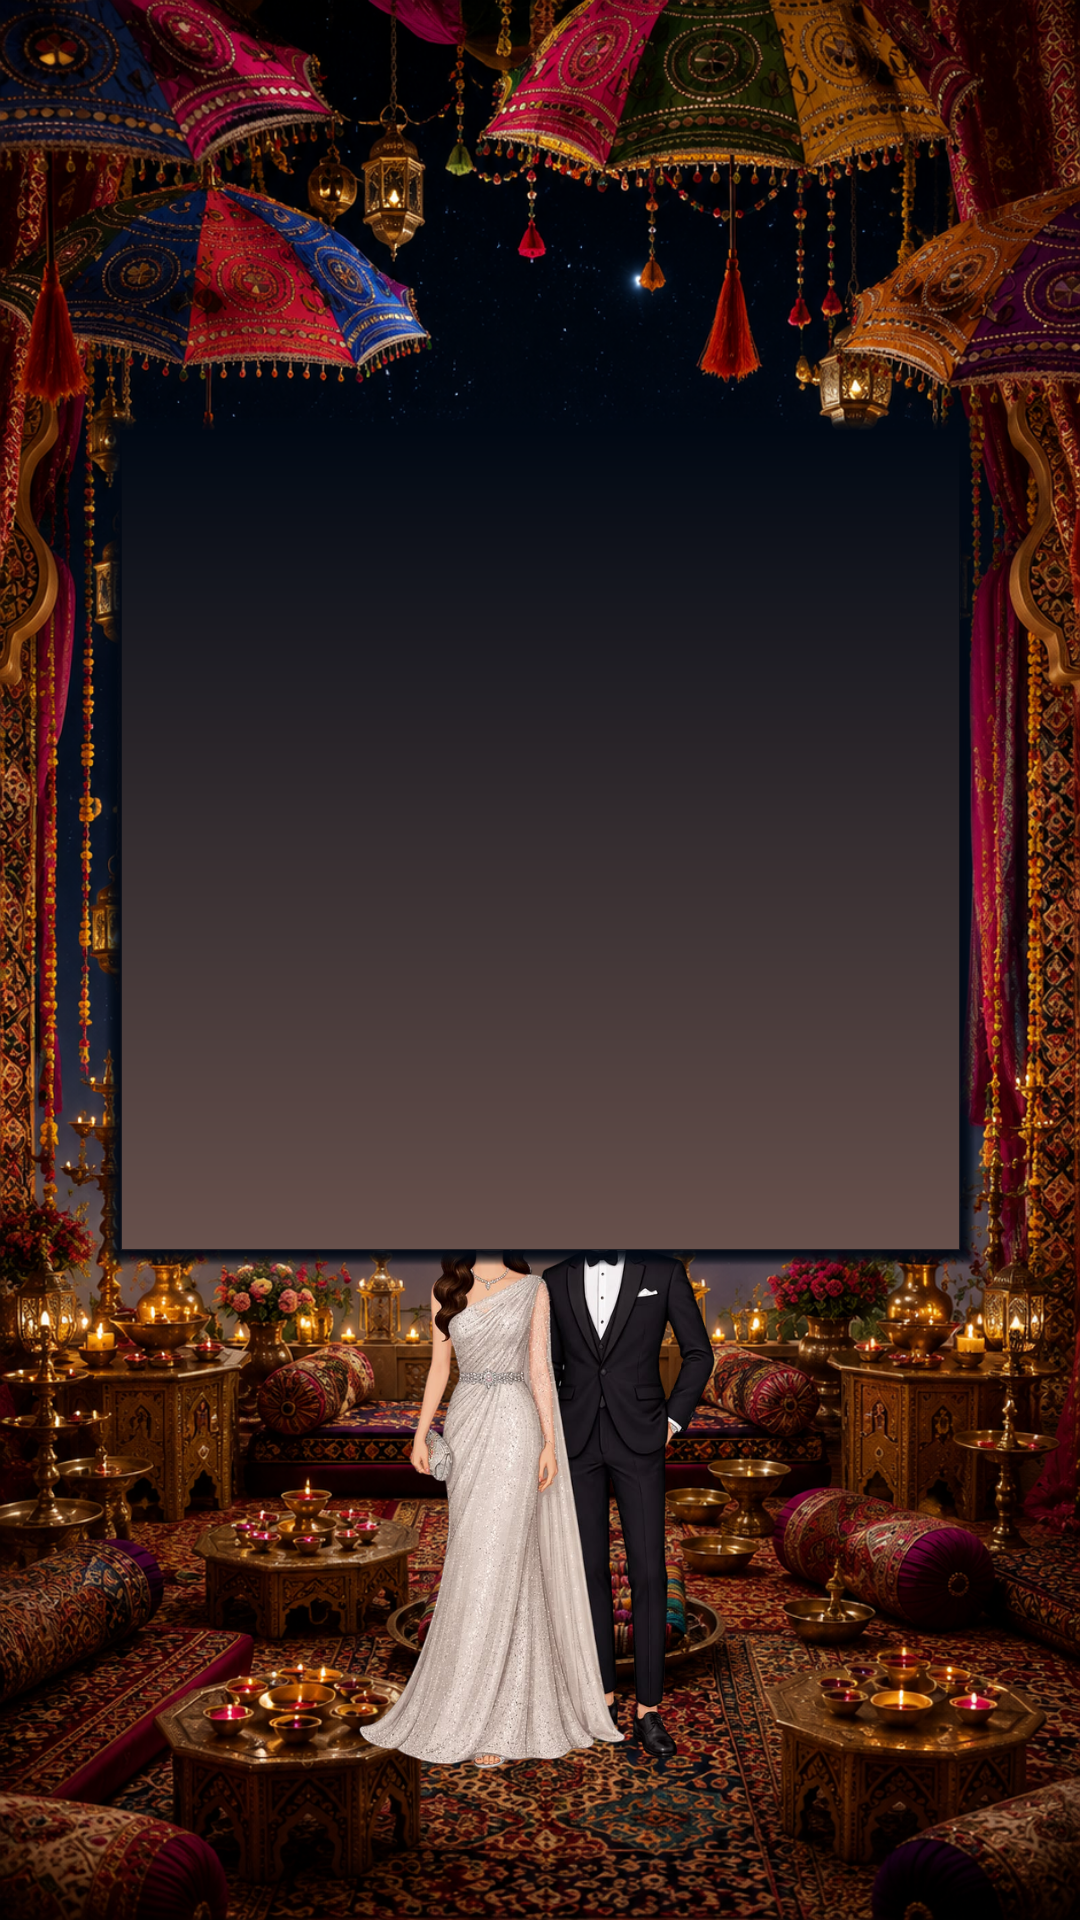
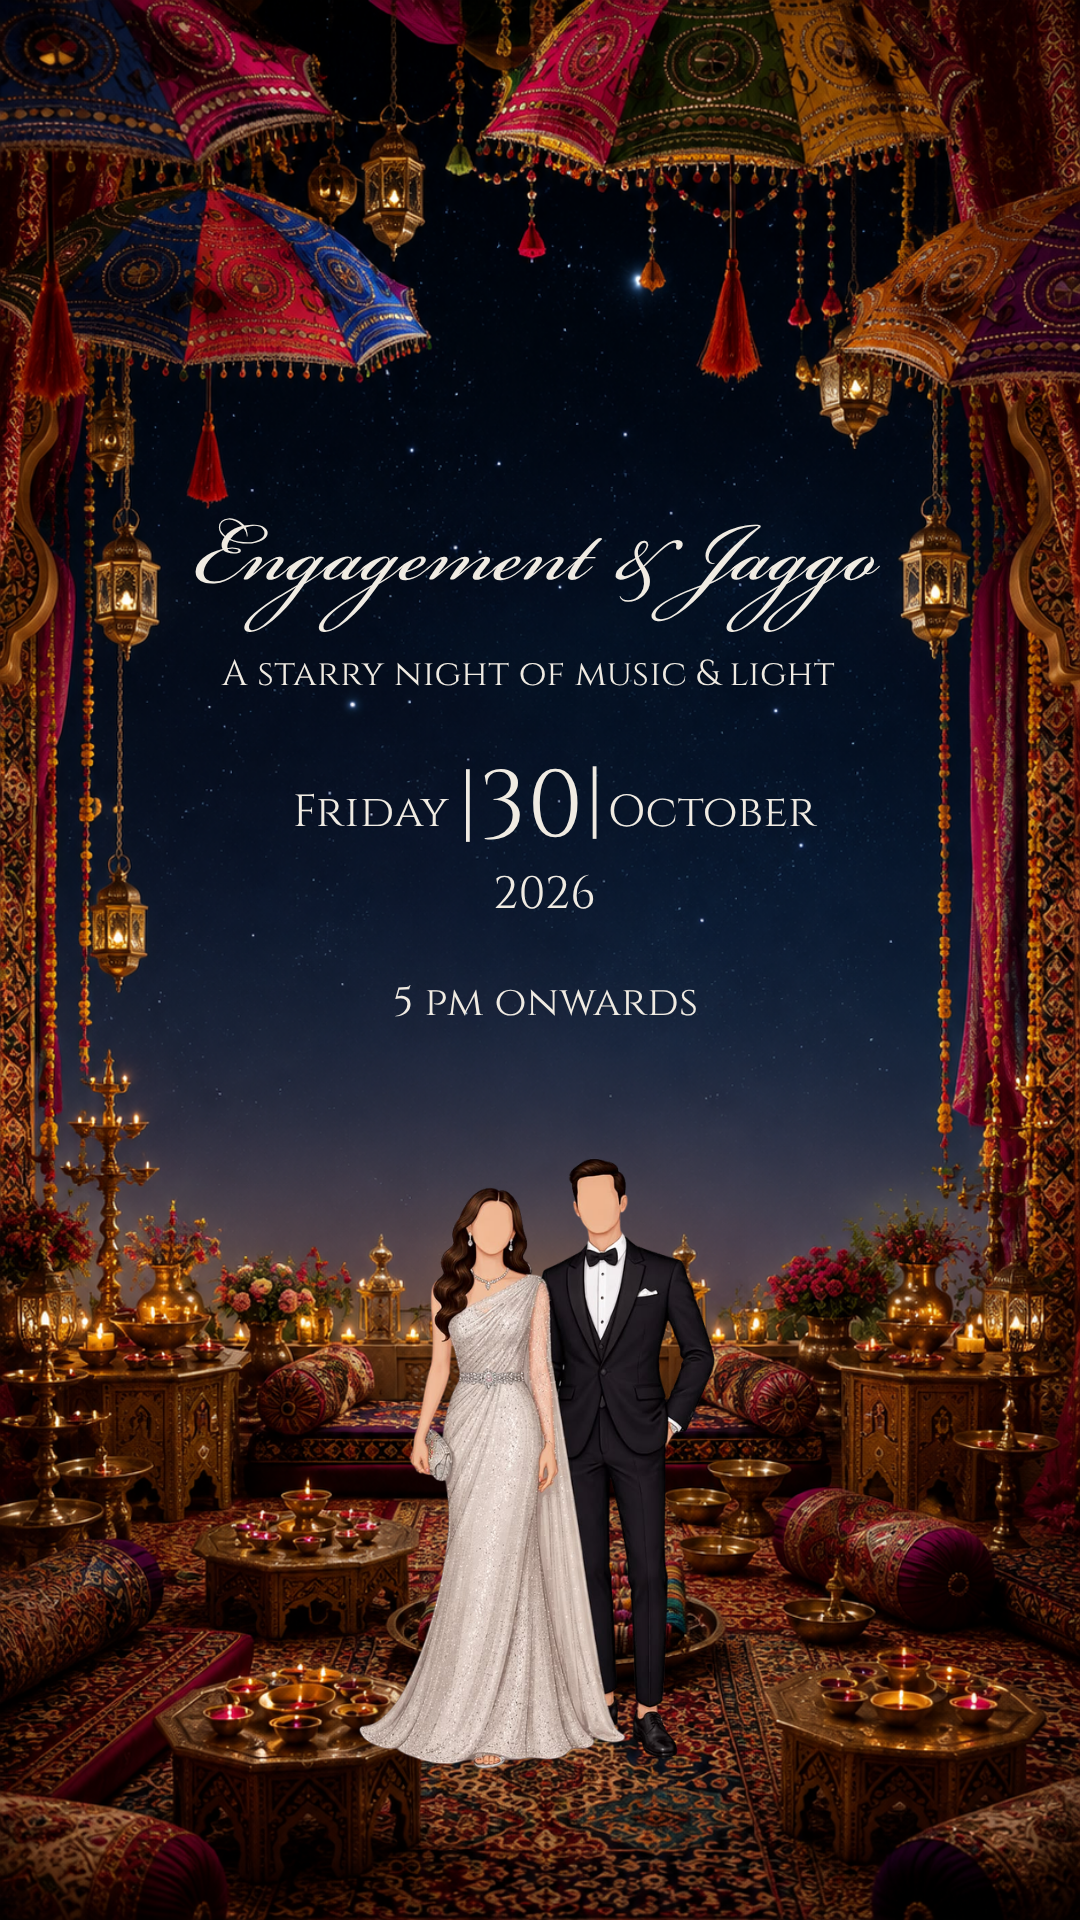
Restore original card2.png artwork and position Ring Ceremony details in lower overlay to keep couple faces fully visible

Changed region(s): [[0.0917, 0.2188, 0.9167, 0.6562], [0.7639, 0.2188, 0.825, 0.25]]

diff --git a/index.html b/index.html
@@ -495,37 +495,27 @@
             <div class="relative w-full aspect-[9/16] overflow-hidden group">
               <img src="assets/template/card2.png" alt="Ring Ceremony" class="w-full h-full object-cover object-center transition-transform duration-700 group-hover:scale-105"/>
               
-              <!-- Clean Central Ceremony Details (Title directly above date & venue) -->
-              <div class="absolute top-[23%] inset-x-[8%] bottom-[36%] flex flex-col items-center justify-center text-center pointer-events-none select-none text-white">
-                <h3 class="font-bikham text-4xl sm:text-5xl text-[#fff4e0] leading-none mb-1 font-normal drop-shadow-md">
+              <!-- Bottom Elegant Card Overlay (Positioned at bottom so couple's faces in upper half remain 100% visible) -->
+              <div class="absolute inset-x-0 bottom-0 p-5 bg-gradient-to-t from-[#020b18]/95 via-[#020b18]/70 to-transparent text-white flex flex-col items-center text-center">
+                <h3 class="font-bikham text-3xl sm:text-4xl text-[#fff4e0] my-1 leading-none font-normal drop-shadow-md">
                   Ring Ceremony
                 </h3>
-                <p class="font-cinzel text-[9.5px] sm:text-[10px] uppercase tracking-[0.22em] text-[#f3e0aa] font-semibold mb-3">
+                <p class="font-cinzel text-[10px] text-[#f3e0aa] tracking-wider uppercase mb-1.5">
                   EXCHANGE OF RINGS, MUSIC &amp; SANGEET
                 </p>
 
-                <!-- Date Badge -->
-                <div class="flex items-center justify-center gap-1.5 text-[#f3e0aa] font-cinzel text-[11px] sm:text-[12px] font-bold tracking-[0.2em] uppercase">
-                  <span>THURSDAY</span>
-                  <span class="text-[#d4af37] text-sm">|</span>
-                  <span class="font-bold text-base sm:text-lg text-white tracking-normal px-0.5">28</span>
-                  <span class="text-[#d4af37] text-sm">|</span>
-                  <span>JANUARY</span>
+                <div class="flex items-center justify-center gap-1.5 text-[#f3e0aa] font-cinzel text-[10.5px] font-bold tracking-[0.18em] uppercase">
+                  <span>THURSDAY, 28 JAN 2027</span>
+                  <span class="text-[#d4af37]">&bull;</span>
+                  <span>7:00 PM ONWARDS</span>
                 </div>
-                <p class="font-cinzel text-xs font-bold text-[#f3e0aa] tracking-[0.25em] mt-0.5">2027</p>
-                
-                <div class="w-12 h-[0.5px] bg-[#d4af37]/70 my-2.5"></div>
-                
-                <p class="font-cinzel text-[11px] uppercase tracking-[0.22em] text-[#f3e0aa] font-semibold">
-                  7:00 PM ONWARDS
-                </p>
-                <p class="font-cinzel text-[12px] sm:text-[12.5px] uppercase tracking-[0.22em] text-white font-bold mt-1">
+
+                <div class="w-12 h-[0.5px] bg-[#d4af37]/70 my-2"></div>
+
+                <p class="font-cinzel text-[11px] sm:text-[11.5px] uppercase tracking-[0.22em] text-white font-bold">
                   AMAYA
                 </p>
               </div>
-
-              <!-- Bottom Elegant Gradient Base -->
-              <div class="absolute inset-x-0 bottom-0 h-16 bg-gradient-to-t from-[#020b18]/90 via-[#020b18]/40 to-transparent pointer-events-none"></div>
             </div>
           </div>
 

diff --git a/wedding_invitation.html b/wedding_invitation.html
@@ -495,37 +495,27 @@
             <div class="relative w-full aspect-[9/16] overflow-hidden group">
               <img src="assets/template/card2.png" alt="Ring Ceremony" class="w-full h-full object-cover object-center transition-transform duration-700 group-hover:scale-105"/>
               
-              <!-- Clean Central Ceremony Details (Title directly above date & venue) -->
-              <div class="absolute top-[23%] inset-x-[8%] bottom-[36%] flex flex-col items-center justify-center text-center pointer-events-none select-none text-white">
-                <h3 class="font-bikham text-4xl sm:text-5xl text-[#fff4e0] leading-none mb-1 font-normal drop-shadow-md">
+              <!-- Bottom Elegant Card Overlay (Positioned at bottom so couple's faces in upper half remain 100% visible) -->
+              <div class="absolute inset-x-0 bottom-0 p-5 bg-gradient-to-t from-[#020b18]/95 via-[#020b18]/70 to-transparent text-white flex flex-col items-center text-center">
+                <h3 class="font-bikham text-3xl sm:text-4xl text-[#fff4e0] my-1 leading-none font-normal drop-shadow-md">
                   Ring Ceremony
                 </h3>
-                <p class="font-cinzel text-[9.5px] sm:text-[10px] uppercase tracking-[0.22em] text-[#f3e0aa] font-semibold mb-3">
+                <p class="font-cinzel text-[10px] text-[#f3e0aa] tracking-wider uppercase mb-1.5">
                   EXCHANGE OF RINGS, MUSIC &amp; SANGEET
                 </p>
 
-                <!-- Date Badge -->
-                <div class="flex items-center justify-center gap-1.5 text-[#f3e0aa] font-cinzel text-[11px] sm:text-[12px] font-bold tracking-[0.2em] uppercase">
-                  <span>THURSDAY</span>
-                  <span class="text-[#d4af37] text-sm">|</span>
-                  <span class="font-bold text-base sm:text-lg text-white tracking-normal px-0.5">28</span>
-                  <span class="text-[#d4af37] text-sm">|</span>
-                  <span>JANUARY</span>
+                <div class="flex items-center justify-center gap-1.5 text-[#f3e0aa] font-cinzel text-[10.5px] font-bold tracking-[0.18em] uppercase">
+                  <span>THURSDAY, 28 JAN 2027</span>
+                  <span class="text-[#d4af37]">&bull;</span>
+                  <span>7:00 PM ONWARDS</span>
                 </div>
-                <p class="font-cinzel text-xs font-bold text-[#f3e0aa] tracking-[0.25em] mt-0.5">2027</p>
-                
-                <div class="w-12 h-[0.5px] bg-[#d4af37]/70 my-2.5"></div>
-                
-                <p class="font-cinzel text-[11px] uppercase tracking-[0.22em] text-[#f3e0aa] font-semibold">
-                  7:00 PM ONWARDS
-                </p>
-                <p class="font-cinzel text-[12px] sm:text-[12.5px] uppercase tracking-[0.22em] text-white font-bold mt-1">
+
+                <div class="w-12 h-[0.5px] bg-[#d4af37]/70 my-2"></div>
+
+                <p class="font-cinzel text-[11px] sm:text-[11.5px] uppercase tracking-[0.22em] text-white font-bold">
                   AMAYA
                 </p>
               </div>
-
-              <!-- Bottom Elegant Gradient Base -->
-              <div class="absolute inset-x-0 bottom-0 h-16 bg-gradient-to-t from-[#020b18]/90 via-[#020b18]/40 to-transparent pointer-events-none"></div>
             </div>
           </div>
 
